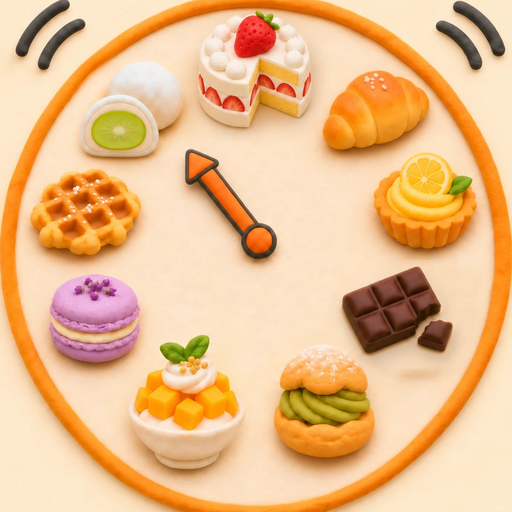
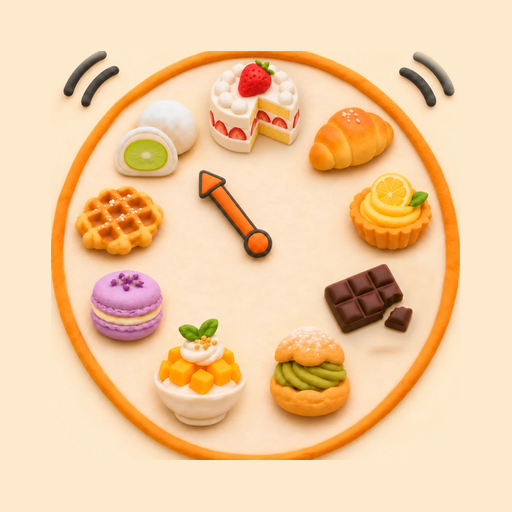
홈 화면 아이콘: 그림을 80%로 줄여 가장자리가 안 잘리게(주소 ?v=5)

diff --git a/index.html b/index.html
@@ -6,10 +6,10 @@
 <meta name="apple-mobile-web-app-capable" content="yes">
 <meta name="theme-color" content="#ffd400">
 <title>디저트 타이밍</title>
-<link rel="icon" type="image/png" sizes="32x32" href="img/brand/favicon.png?v=4">
-<link rel="icon" type="image/png" sizes="512x512" href="img/brand/icon-512.png?v=4">
+<link rel="icon" type="image/png" sizes="32x32" href="img/brand/favicon.png?v=5">
+<link rel="icon" type="image/png" sizes="512x512" href="img/brand/icon-512.png?v=5">
 <link rel="manifest" href="manifest.webmanifest">
-<link rel="apple-touch-icon" sizes="180x180" href="img/brand/apple-touch-icon.png?v=4">
+<link rel="apple-touch-icon" sizes="180x180" href="img/brand/apple-touch-icon.png?v=5">
 <meta name="description" content="네이버 10년치 검색량으로 본 디저트 수명주기와 출시 타이밍">
 <meta property="og:type" content="website">
 <meta property="og:site_name" content="디저트 타이밍">
@@ -1279,7 +1279,7 @@ table.small.bt-tbl td:first-child{word-break:break-all;white-space:normal}
 </main>
 
 <div class="a2hs" id="a2hs" hidden>
-  <img src="img/brand/apple-touch-icon.png?v=4" alt="">
+  <img src="img/brand/apple-touch-icon.png?v=5" alt="">
   <div><b>디저트 타이밍을 홈 화면에 쏙</b><span>아이콘을 눌러 앱처럼 바로 열어요</span></div>
   <button type="button" class="btn" id="a2hs-btn">⬇ 설치 방법</button>
 </div>

diff --git a/src/head.html b/src/head.html
@@ -6,10 +6,10 @@
 <meta name="apple-mobile-web-app-capable" content="yes">
 <meta name="theme-color" content="#ffd400">
 <title>디저트 타이밍</title>
-<link rel="icon" type="image/png" sizes="32x32" href="img/brand/favicon.png?v=4">
-<link rel="icon" type="image/png" sizes="512x512" href="img/brand/icon-512.png?v=4">
+<link rel="icon" type="image/png" sizes="32x32" href="img/brand/favicon.png?v=5">
+<link rel="icon" type="image/png" sizes="512x512" href="img/brand/icon-512.png?v=5">
 <link rel="manifest" href="manifest.webmanifest">
-<link rel="apple-touch-icon" sizes="180x180" href="img/brand/apple-touch-icon.png?v=4">
+<link rel="apple-touch-icon" sizes="180x180" href="img/brand/apple-touch-icon.png?v=5">
 <meta name="description" content="네이버 10년치 검색량으로 본 디저트 수명주기와 출시 타이밍">
 <meta property="og:type" content="website">
 <meta property="og:site_name" content="디저트 타이밍">

diff --git a/privacy.html b/privacy.html
@@ -4,7 +4,7 @@
 <meta charset="utf-8">
 <meta name="viewport" content="width=device-width, initial-scale=1">
 <title>개인정보 처리방침 · 디저트 타이밍</title>
-<link rel="icon" href="img/brand/favicon.png?v=4">
+<link rel="icon" href="img/brand/favicon.png?v=5">
 <link href="https://fonts.googleapis.com/css2?family=Black+Han+Sans&family=Noto+Sans+KR:wght@400;700&display=swap" rel="stylesheet">
 <style>
 :root{--y:#ffd400;--ink:#1c1c1c;--ink2:#555;--bg:#fff8dc}

diff --git a/guide.html b/guide.html
@@ -4,7 +4,7 @@
 <meta charset="utf-8">
 <meta name="viewport" content="width=device-width, initial-scale=1">
 <title>사용법 · 디저트 타이밍</title>
-<link rel="icon" href="img/brand/favicon.png?v=4">
+<link rel="icon" href="img/brand/favicon.png?v=5">
 <link href="https://fonts.googleapis.com/css2?family=Black+Han+Sans&family=Noto+Sans+KR:wght@400;700&display=swap" rel="stylesheet">
 <style>
 :root{--y:#ffd400;--o:#ff5a1f;--ink:#1c1c1c;--ink2:#555;--bg:#fff8dc}

diff --git a/src/body.html b/src/body.html
@@ -387,7 +387,7 @@
 </main>
 
 <div class="a2hs" id="a2hs" hidden>
-  <img src="img/brand/apple-touch-icon.png?v=4" alt="">
+  <img src="img/brand/apple-touch-icon.png?v=5" alt="">
   <div><b>디저트 타이밍을 홈 화면에 쏙</b><span>아이콘을 눌러 앱처럼 바로 열어요</span></div>
   <button type="button" class="btn" id="a2hs-btn">⬇ 설치 방법</button>
 </div>
